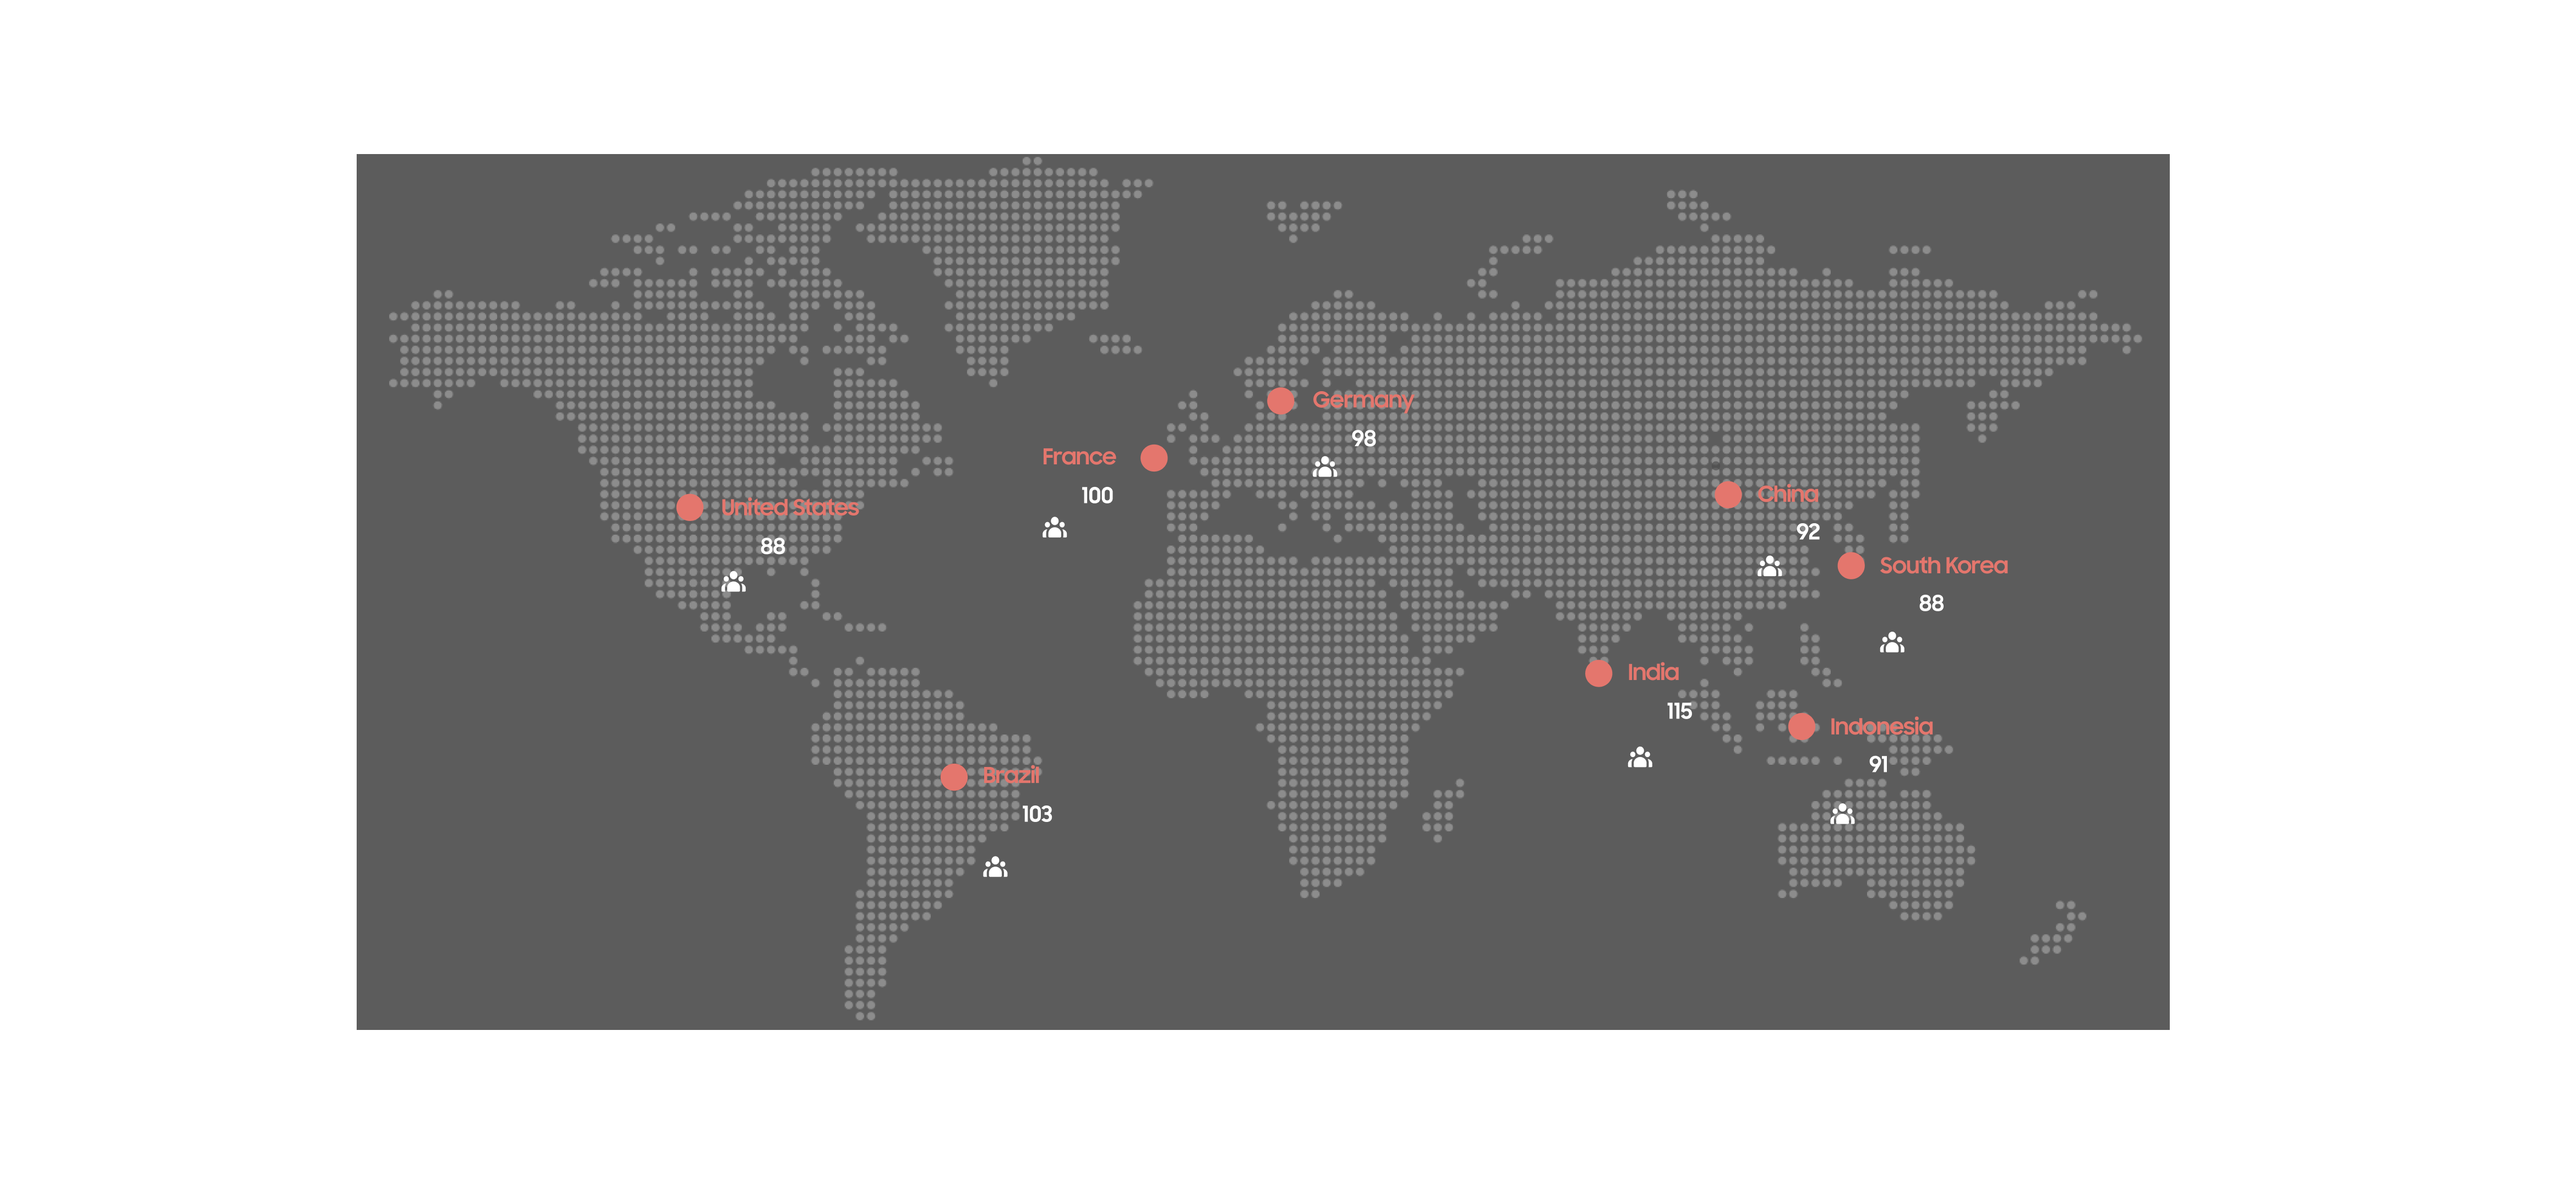
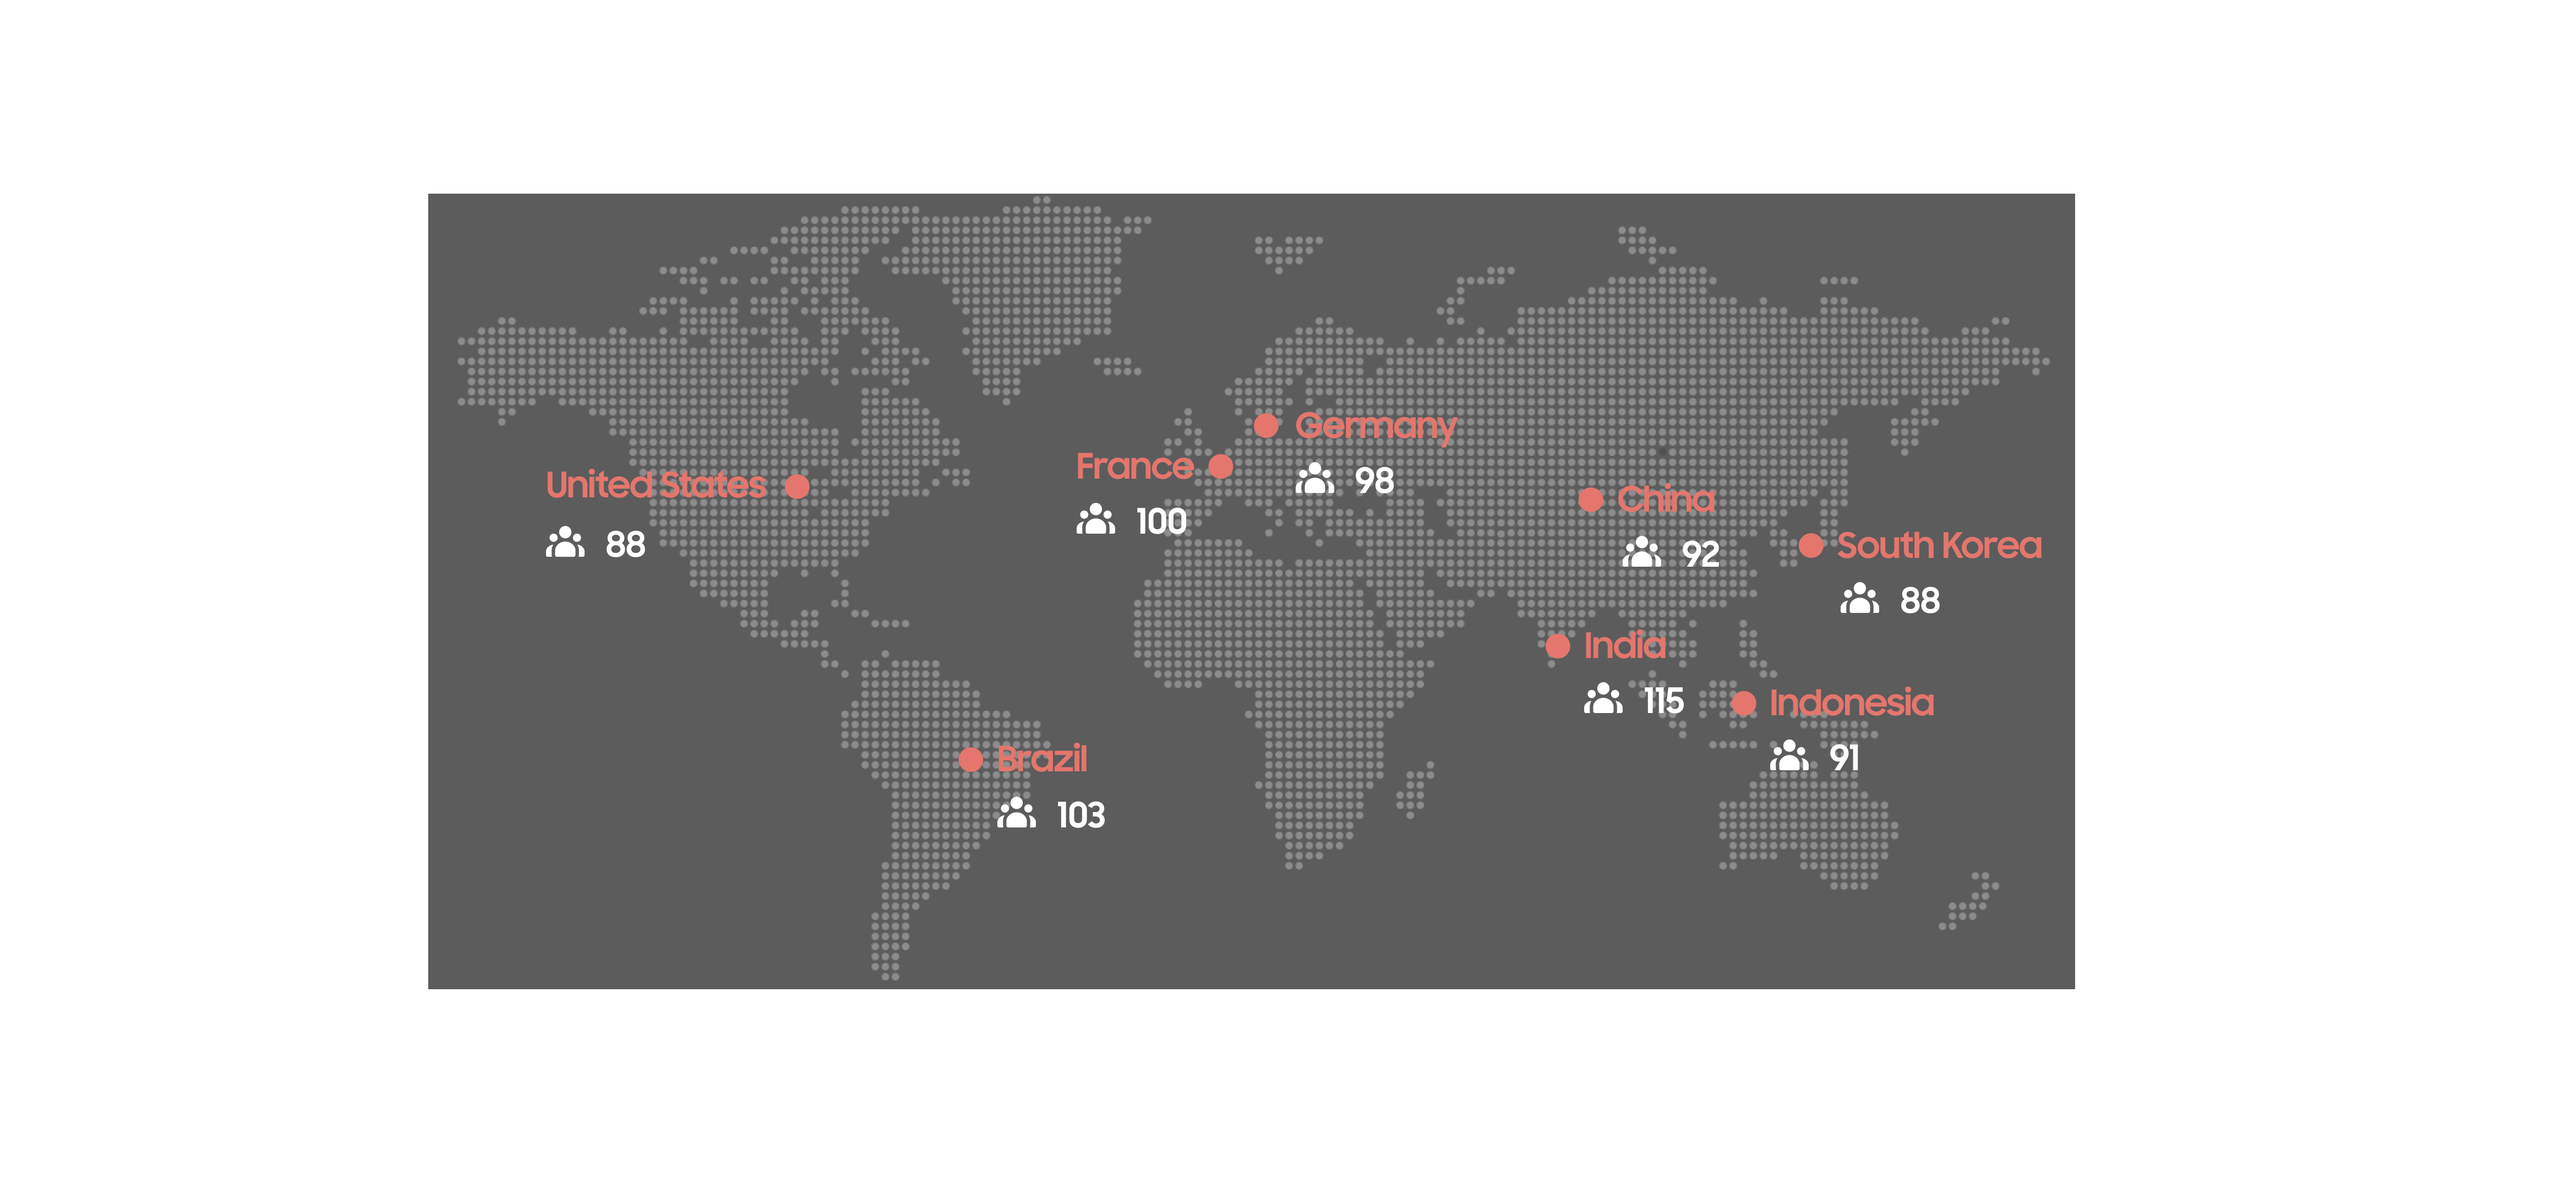
Update Samsung challenge content

Changed region(s): [[0.1248, 0.1245, 0.8423, 0.8717]]

diff --git a/samsung.html b/samsung.html
@@ -1021,7 +1021,7 @@
                 <div class="samsung-section__copy">
                     <p class="samsung-challenge__question">How might we turn global user insights into future Galaxy experiences that resonate with the next generation?</p>
                     <p>We surveyed 784 users across 8 countries, comparing perceptions of Samsung, Galaxy, and Apple, and complemented the findings with Gen Z interviews to uncover where Galaxy could feel more distinctive and emotionally relevant.</p>
-                    <p>We translated these insights into future experience directions, then brought them to life through AI-driven personalization concepts and prototypes for the Galaxy cover screen.</p>
+                    <p>These insights became the foundation for new design directions, which we later translated into personalization concepts and prototypes for the Galaxy cover screen.</p>
                 </div>
             </div>
             <img class="samsung-section__image" src="media/samsung/new-challenge.png" width="4680" height="2152" loading="lazy" decoding="async" alt="Global Samsung research participants across eight countries" />
